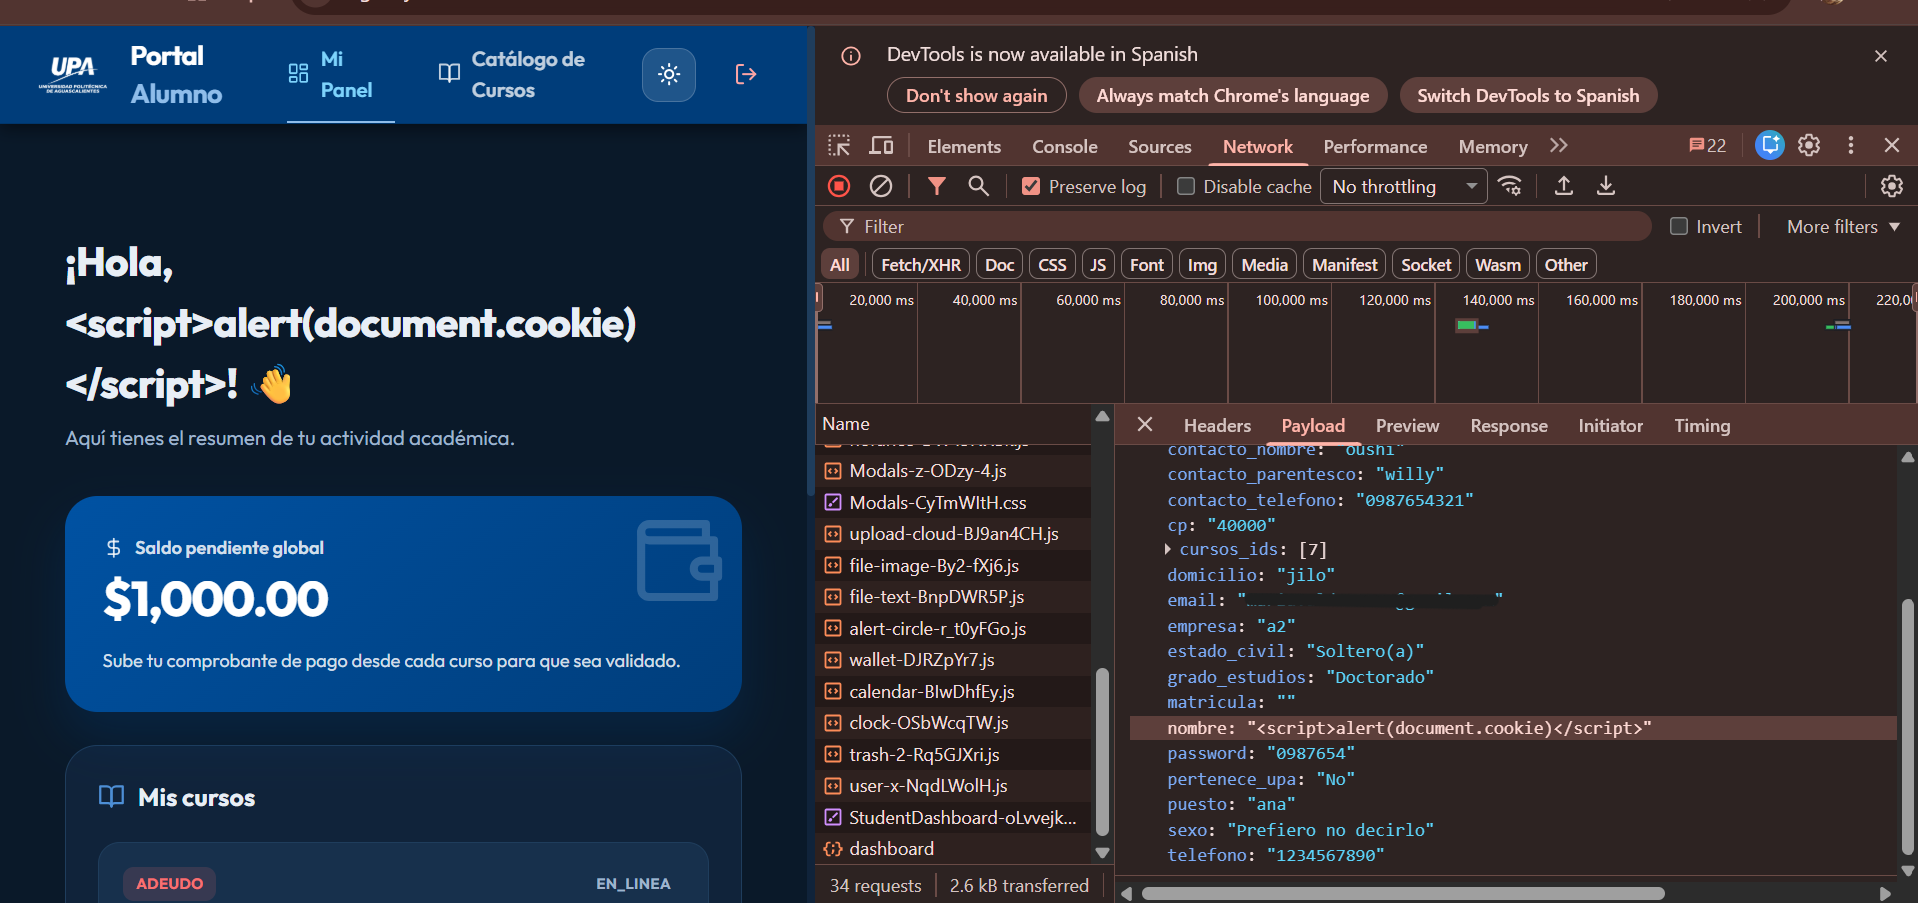
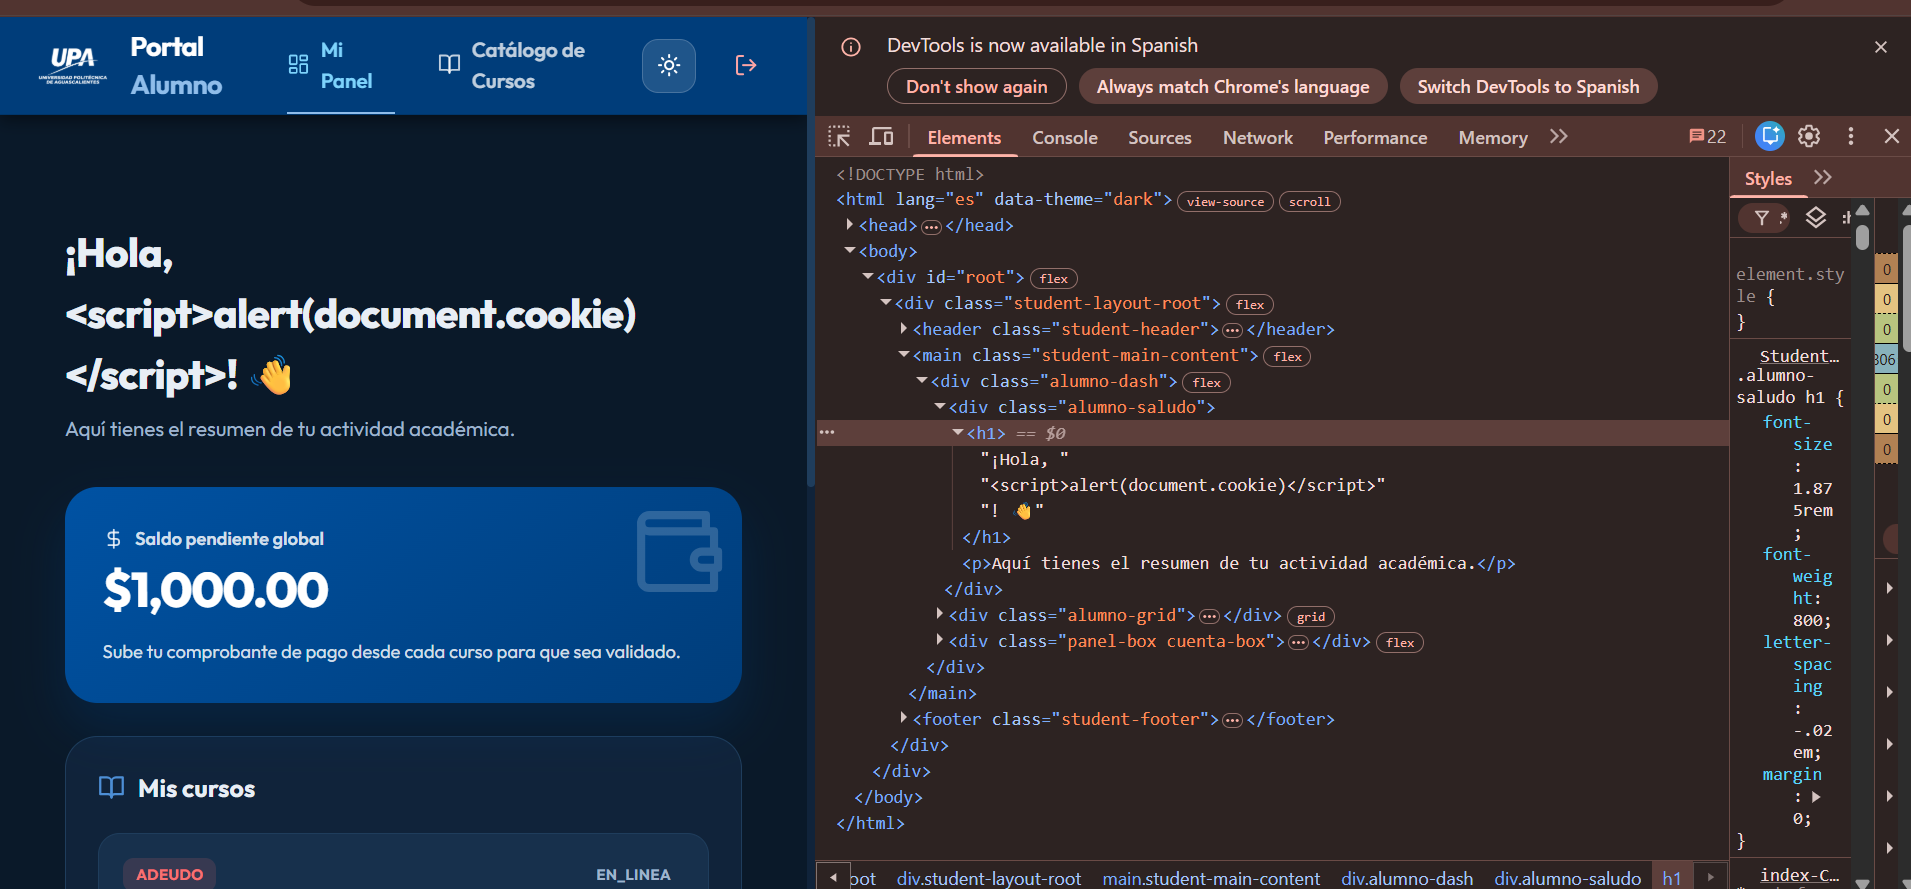
add DOM verification for xss finding

diff --git a/README.md b/README.md
@@ -140,6 +140,14 @@ The backend accepted the upload but renamed the file and enforced a `.jpg` exten
 ```
 No JavaScript execution occurred — no alert dialog appeared, and no script ran in the browser context.
 
+**DOM verification:** Inspecting the rendered greeting via DevTools Elements panel confirmed the payload is represented as a plain **text node**, not as an actual `<script>` element:
+```
+"¡Hola, "
+"<script>alert(document.cookie)</script>"
+"! 👋"
+```
+Each line appears quoted in the DOM tree, indicating Chrome parsed the entire string — including the `<script>` tags — as literal character content, never as markup. This rules out any possibility of delayed or conditional execution.
+
 **Analysis:** The frontend correctly escapes user-supplied data before rendering it in the DOM. This is consistent with the default auto-escaping behavior of modern frontend frameworks (e.g., React), which convert special characters into safe text representations unless a developer explicitly opts out (e.g., via `dangerouslySetInnerHTML` in React). This is an effective mitigation against Stored XSS in this specific field and rendering context.
 
 **Scope note:** This test covered one field (`nombre`) rendered in one context (dashboard greeting). Other fields or rendering contexts (e.g., HTML attributes, URLs built from user input) were not tested and could theoretically behave differently; a full assessment would need to test each independently.
